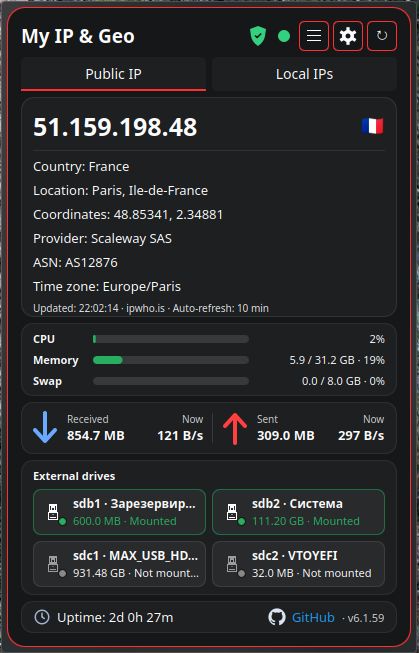
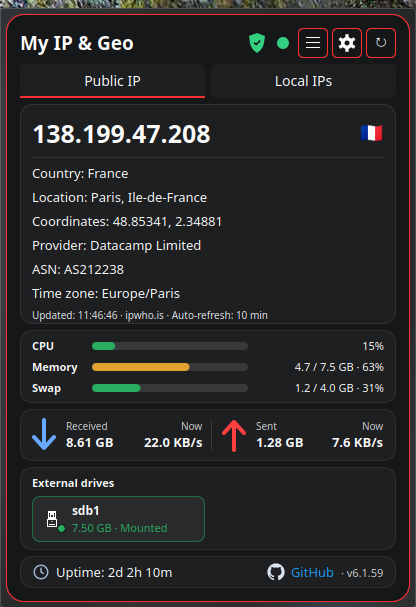
6.1.59: fixed memory and CPU growth over time
- Fixed a slow leak that made plasmashell use more memory and CPU the longer it ran (measured on Kubuntu: 480 MB and 11% CPU after start, 868 MB and over 50% after an hour). Plasma's executable data source keeps an entry for every command string it has run and copies that list on every update; the widget put a new counter into each command (every 2 s for CPU/memory and traffic, 3 s for drives), so the list grew without end. Commands now carry one of 8 rotating run tags: the list stays at a fixed size (checked in the test environment: 6.1.58 grew by about 2.6 entries a second, 6.1.59 stays constant).

Claude-Session: https://claude.ai/code/session_01DNAqwNWcFtWatBTBi1EzRW

Changed region(s): [[0.0, 0.0, 1.0, 1.0], [0.8438, 0.1779, 0.9375, 0.2372]]

diff --git a/package/contents/ui/main.qml b/package/contents/ui/main.qml
@@ -178,6 +178,8 @@ PlasmoidItem {
     property real swapUsed: -1
     property real swapTotal: 0
     property int sysSeq: 0
+    property int publicSeq: 0
+    property int dnsSeq: 0
     property string trafficSent: "—"
     property string trafficUpdated: "—"
     // Current speed from the difference of two counter samples (bytes/s, -1 = not known yet)
@@ -576,7 +578,7 @@ PlasmoidItem {
         scanRunCidr = cidr
         // A new command string every run: the same string again can return the previous result
         scanSeq += 1
-        scanApi.connectSource("sh " + codePath("netscan.sh") + " scan " + cidr + " " + scanSeq)
+        scanApi.connectSource("sh " + codePath("netscan.sh") + " scan " + cidr + " " + root.runTag(scanSeq))
     }
 
     // ----- Scanner: per-host TCP port check (portscan.sh) -----
@@ -628,7 +630,7 @@ PlasmoidItem {
         root.portScanIp = ip
         root.portScanSeq += 1
         root.setPortScan(ip, {state: "running", ports: [], scanned: 0, error: "", secs: 0})
-        root.portScanSource = "bash " + root.codePath("portscan.sh") + " " + safeIp + " " + spec + " " + root.portScanSeq
+        root.portScanSource = "bash " + root.codePath("portscan.sh") + " " + safeIp + " " + spec + " " + root.runTag(root.portScanSeq)
         portScanApi.connectSource(root.portScanSource)
         portScanWatchdog.restart()
     }
@@ -724,7 +726,7 @@ PlasmoidItem {
         }
         if (!ips.length) { monitorLoading = false; return }
         root.monitorSeq += 1
-        monitorApi.connectSource("MYIPGEO_RUN=" + root.monitorSeq + " sh " + codePath("monitor.sh") + " " + ips.join(" "))
+        monitorApi.connectSource("MYIPGEO_RUN=" + root.runTag(root.monitorSeq) + " sh " + codePath("monitor.sh") + " " + ips.join(" "))
     }
 
     function refreshAll() {
@@ -732,13 +734,15 @@ PlasmoidItem {
         uptimeApi.connectSource("cut -d' ' -f1 /proc/uptime")
         if (!loading) {
             loading = true
-            publicApi.connectSource("sh " + codePath("publicip.sh") + " " + Date.now())
+            root.publicSeq += 1
+            publicApi.connectSource("sh " + codePath("publicip.sh") + " " + root.runTag(root.publicSeq))
         }
         if (!localLoading) {
             localLoading = true
             localApi.connectSource("ip -j addr show")
             routeApi.connectSource("ip -j route show default")
-            dnsApi.connectSource("bash " + codePath("netdiag.sh") + " dnsmap " + Date.now())
+            root.dnsSeq += 1
+            dnsApi.connectSource("bash " + codePath("netdiag.sh") + " dnsmap " + root.runTag(root.dnsSeq))
         }
         refreshNetwork()
     }
@@ -764,7 +768,7 @@ PlasmoidItem {
         if (networkLoading) return
         networkLoading = true
         root.statusSeq += 1
-        statusApi.connectSource("bash " + codePath("netdiag.sh") + " status " + root.statusSeq)
+        statusApi.connectSource("bash " + codePath("netdiag.sh") + " status " + root.runTag(root.statusSeq))
     }
 
     // ---------- Diagnostics ----------
@@ -780,7 +784,7 @@ PlasmoidItem {
         root.diagPending = pending
         root.diag = ({})
         for (var j = 0; j < root.diagChecks.length; ++j)
-            diagApi.connectSource("bash " + codePath("netdiag.sh") + " " + root.diagChecks[j] + " " + root.diagSeq)
+            diagApi.connectSource("bash " + codePath("netdiag.sh") + " " + root.diagChecks[j] + " " + root.runTag(root.diagSeq))
         diagWatchdog.restart()
         root.refreshNetwork()
     }
@@ -1612,7 +1616,7 @@ PlasmoidItem {
         // A new command string every time: re-connecting the same source right after it finished
         // makes the executable engine hand back the previous result instead of running it again
         root.appUsageSeq += 1
-        appUsageApi.connectSource("sh " + root.codePath("appusage.sh") + " " + root.appUsageChunkSecs + " " + root.appUsageSeq)
+        appUsageApi.connectSource("sh " + root.codePath("appusage.sh") + " " + root.appUsageChunkSecs + " " + root.runTag(root.appUsageSeq))
     }
 
     function loadAppUsage(bootId) {
@@ -1895,7 +1899,7 @@ PlasmoidItem {
         speedPhase = phase
         speedStatus = phase === "ping" ? "Measuring ping…" : (phase === "download" ? "Measuring download…" : "Measuring upload…")
         root.speedRunSeq += 1
-        var cmd = "sh " + codePath("speedtest.sh") + " " + (phase === "download" ? "down" : (phase === "upload" ? "up" : "ping")) + " " + root.speedRunSeq
+        var cmd = "sh " + codePath("speedtest.sh") + " " + (phase === "download" ? "down" : (phase === "upload" ? "up" : "ping")) + " " + root.runTag(root.speedRunSeq)
         Qt.callLater(function() { speedApi.connectSource(cmd) })
     }
 
@@ -2078,6 +2082,15 @@ PlasmoidItem {
                 text: swapTotal > 0 ? root.usageText(swapUsed, swapTotal) : (swapUsed >= 0 ? "no swap" : "—")}
     }
 
+    // Run tag in a command string. Plasma5Support's DataSource keeps an entry in its "data" map for
+    // every command string it ever ran and copies that map on each update: a counter in the string
+    // (one new string every 2 s) made plasmashell's memory and CPU grow for as long as it ran
+    // (measured: 4500 entries after 2250 runs). Eight tags in rotation keep runs apart while a
+    // previous one may still be finishing, and the map stays small.
+    function runTag(n) {
+        return ((n % 8) + 8) % 8
+    }
+
     function formatRate(bytesPerSec) {
         return bytesPerSec >= 0 ? root.formatBytes(bytesPerSec) + "/s" : "—"
     }
@@ -2140,7 +2153,7 @@ PlasmoidItem {
     function refreshDrives() {
         if (drivesApi.connectedSources.length) return   // the previous run has not finished
         root.drivesSeq += 1
-        drivesApi.connectSource("bash " + root.codePath("drives.sh") + " " + root.drivesSeq)
+        drivesApi.connectSource("bash " + root.codePath("drives.sh") + " " + root.runTag(root.drivesSeq))
     }
 
     // On the desktop the widget sits in an applet container (its "applet" is this item): give the
@@ -2190,7 +2203,7 @@ PlasmoidItem {
     function refreshSystem() {
         if (sysApi.connectedSources.length) return
         root.sysSeq += 1
-        sysApi.connectSource("MYIPGEO_SEQ=" + root.sysSeq + " sh -c 'head -n 1 /proc/stat; grep -E \"^(MemTotal|MemAvailable|SwapTotal|SwapFree):\" /proc/meminfo'")
+        sysApi.connectSource("MYIPGEO_SEQ=" + root.runTag(root.sysSeq) + " sh -c 'head -n 1 /proc/stat; grep -E \"^(MemTotal|MemAvailable|SwapTotal|SwapFree):\" /proc/meminfo'")
     }
 
     function refreshTraffic() {
@@ -2198,7 +2211,7 @@ PlasmoidItem {
         // the same bytes a second time. Without any, every interface but lo.
         if (trafficApi.connectedSources.length) return
         root.trafficSeq += 1
-        trafficApi.connectSource("MYIPGEO_SEQ=" + root.trafficSeq + " sh -c 'rx=0; tx=0; n=0; for d in /sys/class/net/*; do [ -e \"$d/device\" ] || continue; read r < \"$d/statistics/rx_bytes\" && read t < \"$d/statistics/tx_bytes\" || continue; rx=$((rx + r)); tx=$((tx + t)); n=$((n + 1)); done; [ $n -gt 0 ] || for d in /sys/class/net/*; do [ \"${d##*/}\" = lo ] && continue; read r < \"$d/statistics/rx_bytes\" && read t < \"$d/statistics/tx_bytes\" || continue; rx=$((rx + r)); tx=$((tx + t)); done; echo \"$rx $tx\"'")
+        trafficApi.connectSource("MYIPGEO_SEQ=" + root.runTag(root.trafficSeq) + " sh -c 'rx=0; tx=0; n=0; for d in /sys/class/net/*; do [ -e \"$d/device\" ] || continue; read r < \"$d/statistics/rx_bytes\" && read t < \"$d/statistics/tx_bytes\" || continue; rx=$((rx + r)); tx=$((tx + t)); n=$((n + 1)); done; [ $n -gt 0 ] || for d in /sys/class/net/*; do [ \"${d##*/}\" = lo ] && continue; read r < \"$d/statistics/rx_bytes\" && read t < \"$d/statistics/tx_bytes\" || continue; rx=$((rx + r)); tx=$((tx + t)); done; echo \"$rx $tx\"'")
     }
 
     Plasma5Support.DataSource {
@@ -2274,7 +2287,7 @@ PlasmoidItem {
         onNewData: function(source, data) {
             diagApi.disconnectSource(source)
             var m = String(source).match(/netdiag\.sh' (\w+) (\d+)$/)
-            if (!m || +m[2] !== root.diagSeq || !root.diagRunning) return
+            if (!m || +m[2] !== root.runTag(root.diagSeq) || !root.diagRunning) return
             root.diagResult(m[1], data.stdout)
         }
     }
@@ -2284,7 +2297,7 @@ PlasmoidItem {
         interval: 25000
         onTriggered: {
             for (var k in root.diagPending)
-                if (root.diagPending.hasOwnProperty(k)) diagApi.disconnectSource("bash " + root.codePath("netdiag.sh") + " " + k + " " + root.diagSeq)
+                if (root.diagPending.hasOwnProperty(k)) diagApi.disconnectSource("bash " + root.codePath("netdiag.sh") + " " + k + " " + root.runTag(root.diagSeq))
             root.finishDiagnostics()
         }
     }
@@ -2320,7 +2333,7 @@ PlasmoidItem {
         running: root.speedPhase === "download" || root.speedPhase === "upload"
         onTriggered: {
             root.speedSampleSeq += 1
-            speedSampleApi.connectSource("MYIPGEO_SEQ=" + root.speedSampleSeq + " cat /proc/net/dev")
+            speedSampleApi.connectSource("MYIPGEO_SEQ=" + root.runTag(root.speedSampleSeq) + " cat /proc/net/dev")
         }
     }
     Plasma5Support.DataSource {
@@ -3167,7 +3180,7 @@ font.pixelSize:13 }
                     Item { Layout.fillWidth: true }
                     Image { source: Qt.resolvedUrl("../images/github.svg"); sourceSize.width: 18; sourceSize.height: 18; Layout.preferredWidth: 18; Layout.preferredHeight: 18 }
                     Text { text: "GitHub"; color: root.themeLink; font.pixelSize: 13; MouseArea { anchors.fill: parent; cursorShape: Qt.PointingHandCursor; onClicked: Qt.openUrlExternally("https://github.com/f1devbin/my-ip-geo-plasma6") } }
-                    Text { text: "· v6.1.58"; color: root.themeText; opacity: 0.8; font.pixelSize: 11 }
+                    Text { text: "· v6.1.59"; color: root.themeText; opacity: 0.8; font.pixelSize: 11 }
                 }
             }
         }

diff --git a/README.md b/README.md
@@ -4,9 +4,9 @@ A compact KDE Plasma 6 widget for your public IP address and location, your loca
 
 It needs no root rights and nothing extra to install on Kubuntu: it only uses tools that are already there (curl, iproute2, ping, bash, Perl).
 
-**Version 6.1.58** · [Changelog](CHANGELOG.md) · [Download](https://github.com/f1devbin/my-ip-geo-plasma6/releases/latest)
+**Version 6.1.59** · [Changelog](CHANGELOG.md) · [Download](https://github.com/f1devbin/my-ip-geo-plasma6/releases/latest)
 
-<img src="screenshots/main.png" width="419" alt="Main view: public IP, location, provider, CPU / memory / swap, traffic, external drives">
+<img src="screenshots/main.png" width="416" alt="Main view: public IP, location, provider, CPU / memory / swap, traffic, external drives">
 
 ## Features
 
@@ -14,9 +14,15 @@ It needs no root rights and nothing extra to install on Kubuntu: it only uses to
 
 **Local IPs.** Every network interface with its type, MAC address, all IPv4 and IPv6 addresses (one per line, with the subnet mask), gateway and DNS servers.
 
-**Traffic bar.** Data received and sent since boot (physical adapters), and the uptime.
-
 **System load.** CPU, memory and swap as bars with their values, green / yellow / red by load, refreshed every 2 seconds.
+
+**Traffic.** Data received and sent since boot and the current speed of each (physical adapters), refreshed every 2 seconds.
+
+**External drives.** Every partition of a USB or removable drive as a tile: name and label (sdb1 · KINGSTON), size and whether it is mounted. A click on a mounted drive opens it in the file manager; the tooltip shows the model, filesystem, mount point and free space. The system disk and internal disks are not listed.
+
+**Settings** (the ⚙ button). Show or hide the system load, traffic and drives blocks. The widget height follows the shown blocks and the number of drives.
+
+**Footer.** Uptime and a link to this repository.
 
 **Network tools** (the ☰ button):
 
@@ -33,7 +39,7 @@ It needs no root rights and nothing extra to install on Kubuntu: it only uses to
 | <img src="screenshots/speed.png" width="400" alt="Speed test"> | <img src="screenshots/apps.png" width="400" alt="Traffic per application"> |
 | <img src="screenshots/monitor.png" width="400" alt="Monitor"> | |
 
-The screenshots were taken on a test network; all addresses in them are documentation examples.
+The main screenshot shows the address of a VPN exit server. The other screenshots were taken on a test network; all addresses in them are documentation examples.
 
 ## Requirements
 

diff --git a/CHANGELOG.md b/CHANGELOG.md
@@ -2,6 +2,9 @@
 
 All changes of My IP & Geo, newest first.
 
+## v6.1.59
+- Fixed a slow leak that made plasmashell use more memory and CPU the longer it ran (measured on Kubuntu: 480 MB and 11% CPU after start, 868 MB and over 50% after an hour). Plasma's executable data source keeps an entry for every command string it has run and copies that list on every update; the widget put a new counter into each command (every 2 s for CPU/memory and traffic, 3 s for drives), so the list grew without end. Commands now carry one of 8 rotating run tags: the list stays at a fixed size (checked in the test environment: 6.1.58 grew by about 2.6 entries a second, 6.1.59 stays constant).
+
 ## v6.1.58
 - Whole project checked for leaks of the kind fixed in 6.1.57 and for processes piling up.
 - A command that hangs no longer blocks a feature for good or spawns new processes behind it: every 10 s, commands still running past their limit are stopped (CPU / memory 10 s, traffic 10 s, drives 20 s, local addresses and DNS 30 s, public IP 60 s, internet status 60 s, Monitor 90 s, Apps 30 s) and their "loading" state is cleared. The 2–3 s pollers start a new run only after the previous one finished.
